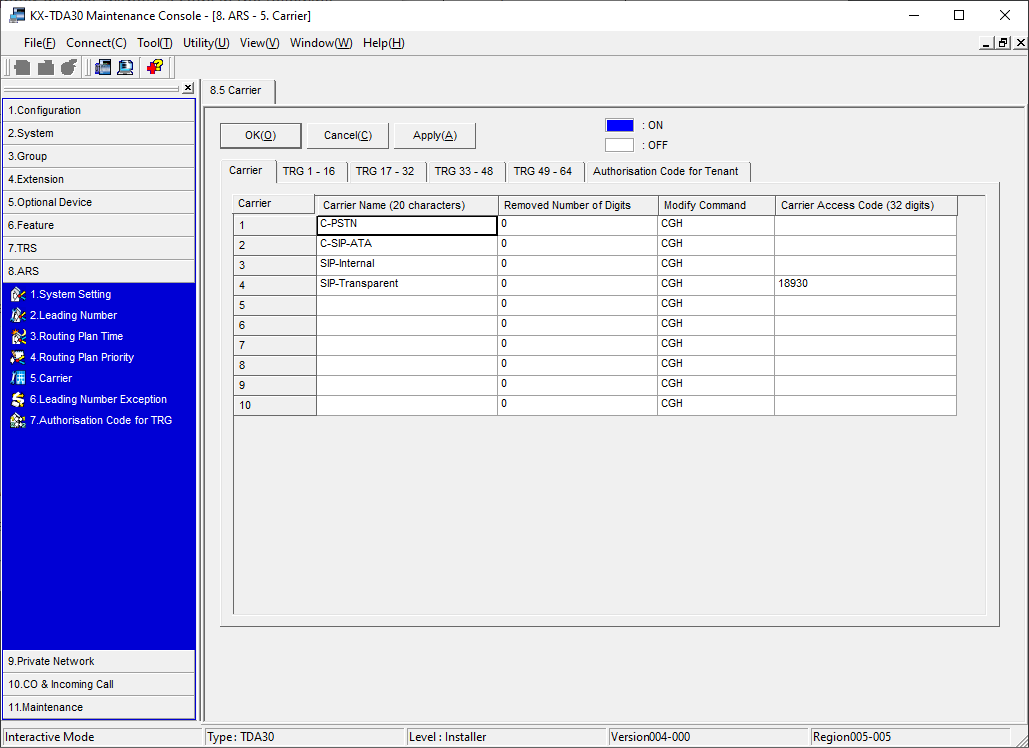
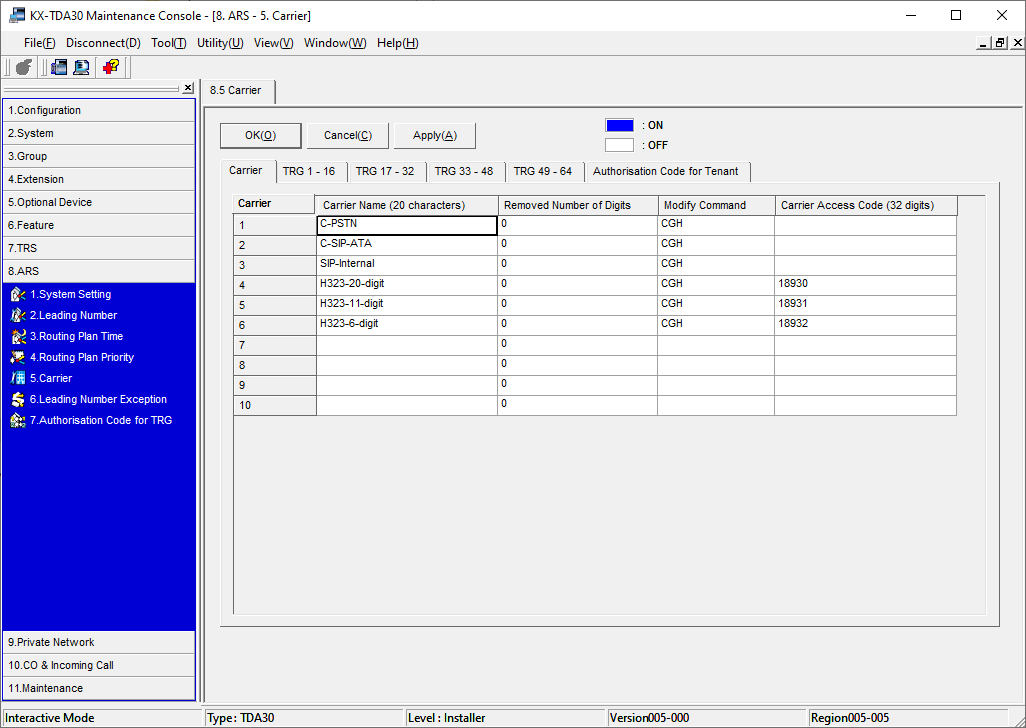
Expanded ARS

Changed region(s): [[0.0, 0.0, 1.0, 1.0], [0.0, 0.8462, 0.1248, 0.9973], [0.9045, 0.0, 0.9357, 0.0302]]

diff --git a/content/ARS.md b/content/ARS.md
@@ -64,24 +64,48 @@ The national numbering plan prohibits local number dialling, without a code in t
 
 ## ARS on the TDA30
 
+### Carrier
+
 Set up the Carriers.  8.5 Carrier
+
+| Carrier Name  | Purpose                                                      |
+| :-----------: | :----------------------------------------------------------- |
+|    C-PSTN     | PSTN CO line(s)                                              |
+|   C-SIP-ATA   | SIP ATA VoIP CO line(s)                                      |
+| SIP-Internal  | H.323 without access code, to access Asterisk internal extensions. |
+| H323-20-digit | International H.323                                          |
+| H323-11-digit | National H.323                                               |
+| H323-6-digit  | Local exchange are calls, H.323                              |
 
 ![](images/TDA30_Carrier.png)
 
 
-Select the TRG1-6 tab and choose the correct carrier for each trunk group.  Apply.
+Select the TRG1-16 tab and choose the correct carrier for each trunk group.  Apply.
 
 ![](images/TDA30_TrunkCarrier.png)
 
-Set up the leading numbers.  8.2 Leading Number
-
-TODO - ERROR ON THIS SCREENSHOT - 2-8 should go to routing plan #3. 
-
-![](images/TDA30_TrunkLeadingNumber.png)
+### Routing Plan
 
 8.4 Routing Plan Priority
 
+| Routing Plan |  Priority 1   |  Priority 2   |
+| :----------: | :-----------: | :-----------: |
+|      1       |    C-PSTN     | H323-20-digit |
+|      2       |   C-SIP-ATA   |       -       |
+|      3       | SIP-Internal  |       -       |
+|      4       | H323-20-digit |    C-PSTN     |
+|      5       | H323-11-digit |    C-PSTN     |
+|      6       | H323-11-digit |    C-PSTN     |
+
 ![](images/TDA30_RoutingPlanPriority.png)
+
+Set up the leading numbers.  8.2 Leading Number
+
+You can import this table by choosing from the Menu Tool->Import->ARS - Leading Digit from this file: [arsl.csv](files/TDA30/arsl.csv)
+
+The file may be edited in popular spreadsheet software.
+
+![](images/TDA30_TrunkLeadingNumber.png)
 
 8.1 System Setting
 
